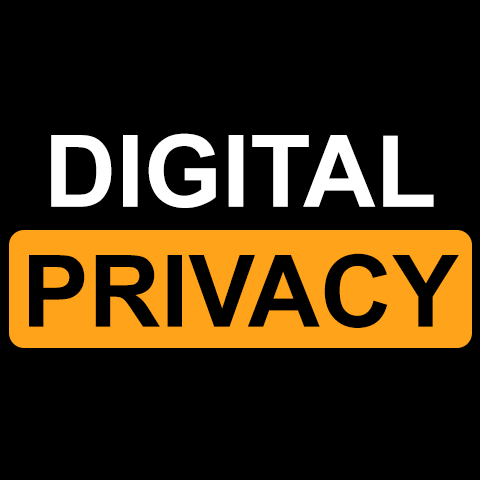
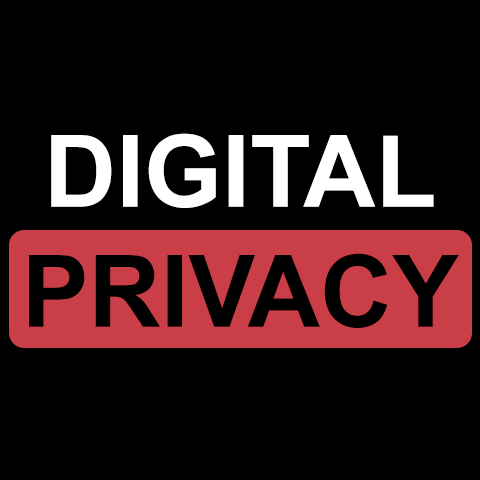
Update highlight color to red

Changed region(s): [[0.0, 0.4688, 1.0, 0.75]]

diff --git a/css/style.css b/css/style.css
@@ -41,10 +41,14 @@ body {
 }
  
 #highlight {
-  background: #ffa31a;
+  background: #ca3e47;
   border-radius: 2.5rem;
   color: #1b1b1b;
   padding: 1rem 5rem;
+}
+
+.highlight {
+  color: #ca3e47;
 }
 
 
@@ -126,7 +130,7 @@ section {
 }
 
 .protection-unordered li{
-  border-color: orange;
+  border-color: #ca3e47;
   border-width: .1px;
   border-style: solid;
   display: grid;
